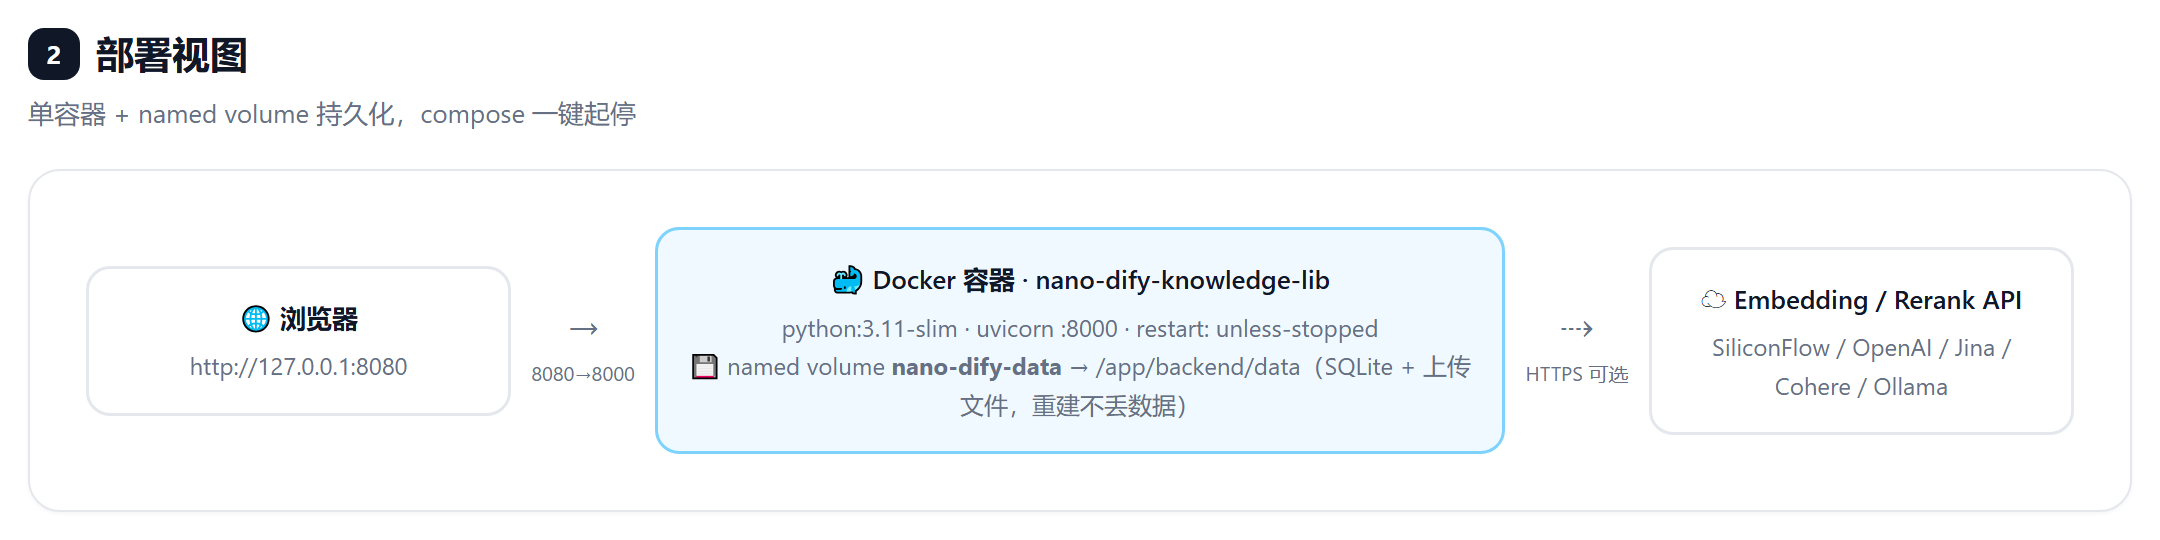
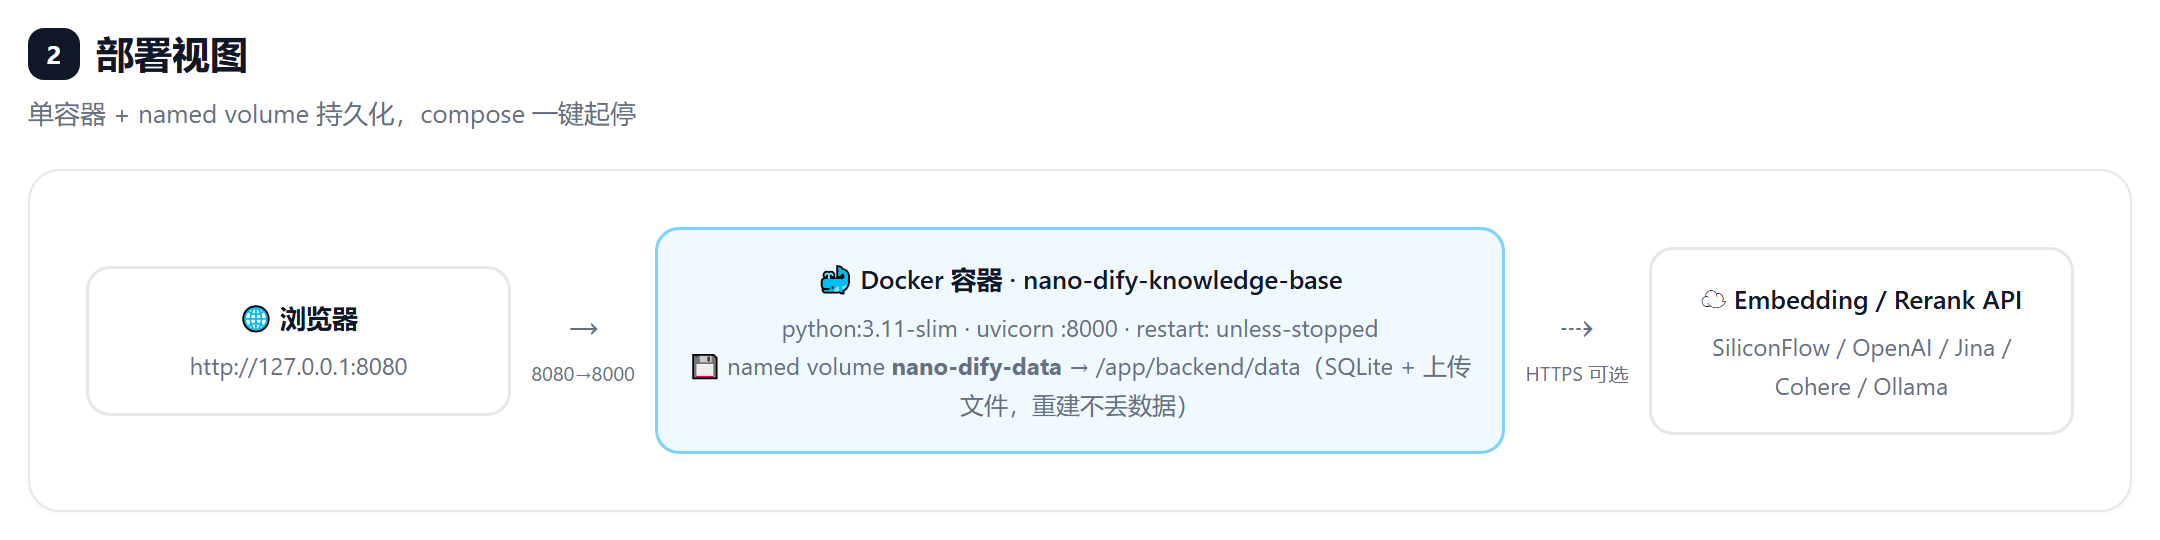
refactor: rename project nano-dify-knowledge-lib -> nano-dify-knowledge-base
- update name across README, NOTICE, compose, UI brand, FastAPI title, architecture docs
- rename docker container/service; data volume migrated to nano-dify-knowledge-base_nano-dify-data

Changed region(s): [[0.3722, 0.4741, 0.6204, 0.563]]

diff --git a/docs/architecture.html b/docs/architecture.html
@@ -3,7 +3,7 @@
 <head>
 <meta charset="UTF-8" />
 <meta name="viewport" content="width=device-width, initial-scale=1.0" />
-<title>Nano Dify Knowledge Lib · 架构设计</title>
+<title>Nano Dify Knowledge Base · 架构设计</title>
 <style>
   :root {
     --ink: #101828; --muted: #667085; --line: #e4e7ec;
@@ -177,7 +177,7 @@
 <div class="page">
 
   <header class="hero">
-    <h1>📚 Nano Dify Knowledge Lib · 架构设计</h1>
+    <h1>📚 Nano Dify Knowledge Base · 架构设计</h1>
     <p>迷你知识库系统 —— 架构 / 部署 / 数据流 / 时序 / 状态机 / 数据模型 六视图</p>
   </header>
 
@@ -258,7 +258,7 @@
         </div>
         <div class="arr">→<small>8080→8000</small></div>
         <div class="box docker">
-          <div class="t">🐳 Docker 容器 · nano-dify-knowledge-lib</div>
+          <div class="t">🐳 Docker 容器 · nano-dify-knowledge-base</div>
           <div class="d">python:3.11-slim · uvicorn :8000 · restart: unless-stopped<br/>
           💾 named volume <b>nano-dify-data</b> → /app/backend/data（SQLite + 上传文件，重建不丢数据）</div>
         </div>
@@ -441,7 +441,7 @@
     </div>
   </section>
 
-  <footer>Nano Dify Knowledge Lib · 架构设计 · Apache-2.0</footer>
+  <footer>Nano Dify Knowledge Base · 架构设计 · Apache-2.0</footer>
 </div>
 </body>
 </html>

diff --git a/frontend/app.js b/frontend/app.js
@@ -1,4 +1,4 @@
-/* Nano Dify Knowledge Lib 管理界面 */
+/* Nano Dify Knowledge Base 管理界面 */
 const $ = (sel) => document.querySelector(sel);
 const api = {
   async req(method, url, body, isForm = false) {

diff --git a/backend/app/main.py b/backend/app/main.py
@@ -1,4 +1,4 @@
-"""Nano Dify Knowledge Lib —— 迷你知识库服务入口。"""
+"""Nano Dify Knowledge Base —— 迷你知识库服务入口。"""
 from fastapi import FastAPI
 from fastapi.middleware.cors import CORSMiddleware
 from fastapi.responses import FileResponse
@@ -11,7 +11,7 @@ from .embedding import embedding_provider_name
 from .rerank import rerank_provider_name
 from .routers import datasets, documents, hit_testing, segments, settings
 
-app = FastAPI(title="Nano Dify Knowledge Lib", version="0.1.0")
+app = FastAPI(title="Nano Dify Knowledge Base", version="0.1.0")
 
 app.add_middleware(
     CORSMiddleware,

diff --git a/README.md b/README.md
@@ -1,4 +1,4 @@
-# Nano Dify Knowledge Lib
+# Nano Dify Knowledge Base
 
 参考开源项目 [Dify](https://github.com/langgenius/dify) 的**知识库（Dataset）**模块，
 独立实现的一个迷你版本：只包含知识库本身及其管理界面，单进程、零中间件、开箱即用。
@@ -103,9 +103,9 @@ docker compose down
 不使用 compose 也可以直接构建镜像：
 
 ```bash
-docker build -t nano-dify-knowledge-lib .
-docker run -d --name nano-dify-knowledge-lib -p 8080:8000 \
-  -v nano-dify-data:/app/backend/data nano-dify-knowledge-lib
+docker build -t nano-dify-knowledge-base .
+docker run -d --name nano-dify-knowledge-base -p 8080:8000 \
+  -v nano-dify-data:/app/backend/data nano-dify-knowledge-base
 ```
 
 网络受限环境下可用构建参数指定 PyPI 镜像加速：
